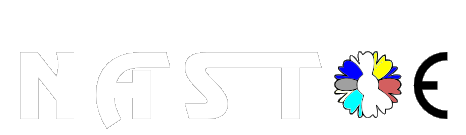
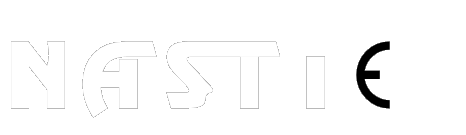
Л

diff --git a/css/index.css b/css/index.css
@@ -1,1 +1,1 @@
-.version.index{color:#0000E4;background-color:#100D49;}#muse_css_mq{background-color:#FFFFFF;}#page{z-index:1;width:960px;min-height:2424px;background-image:none;border-width:0px;border-color:#000000;background-color:transparent;margin-left:auto;margin-right:auto;}#u781-3{z-index:13;width:9px;background-color:transparent;position:relative;margin-right:-10000px;margin-top:511px;left:-323px;}#u784-3{z-index:16;width:9px;background-color:transparent;position:relative;margin-right:-10000px;margin-top:-9px;left:-249px;}#ppu98{z-index:0;width:0.01px;margin-right:-10000px;margin-top:-38px;margin-left:-100px;}#pu98{z-index:4;width:0.01px;margin-left:113px;}#u98{z-index:4;width:648px;height:9px;background-color:#FFFFFF;border-radius:10px;position:relative;margin-right:-10000px;margin-top:179px;left:142px;}#u791{z-index:19;width:60px;min-height:30px;border-width:0px;border-color:transparent;background-color:transparent;position:relative;margin-right:-10000px;margin-top:125px;left:44px;}#u792{z-index:20;width:50px;min-height:25px;border-width:0px;border-color:transparent;background-color:transparent;position:relative;margin-right:-10000px;margin-top:84px;left:44px;}#u1222{z-index:35;width:325px;background-color:transparent;position:relative;margin-right:-10000px;margin-top:1344px;left:302px;}#u1222:hover{width:325px;min-height:0px;margin:1344px -10000px 0px 0px;}#u1222:active{width:325px;min-height:0px;margin:1344px -10000px 0px 0px;}#u10733{z-index:37;width:925px;background-color:transparent;border-radius:50px;position:relative;margin-right:-10000px;margin-top:538px;left:4px;}#u10733::before{content:"";position:absolute;pointer-events:none;top:0px;left:0px;bottom:0px;right:0px;border-radius:50px;box-shadow:inset 1px 1px 4px rgba(255,255,255,0.75), inset -1px -1px 4px rgba(0,0,0,0.75);}#u10733::before .clip_frame,#u10733 .clip_frame{-webkit-border-radius:50px 50px 50px 50px;}#u10962{z-index:39;width:69px;background-color:transparent;position:relative;margin-right:-10000px;margin-top:445px;left:783px;}#u9486{z-index:41;width:281px;background-color:transparent;position:relative;margin-right:-10000px;margin-top:1260px;left:196px;}#u9482{z-index:42;display:block;}#u9475{z-index:43;width:281px;background-color:transparent;position:relative;margin-right:-10000px;margin-top:1260px;left:452px;}#u9471{z-index:44;display:block;}#u1524{z-index:53;width:95px;background-color:transparent;position:relative;margin-right:-10000px;margin-top:58px;left:138px;}#u2221{z-index:57;width:819px;background-color:transparent;position:relative;margin-right:-10000px;margin-top:159px;left:124px;}#u2217{z-index:58;display:block;}#u2386-4{z-index:59;width:208px;min-height:150px;background-color:transparent;font-size:24px;line-height:29px;color:#FF0000;position:relative;margin-right:-10000px;margin-top:256px;left:739px;}#u2656-4{z-index:63;width:225px;min-height:226px;background-color:transparent;font-size:24px;line-height:29px;color:#FF0000;position:relative;margin-right:-10000px;margin-top:256px;}#u2546{z-index:67;width:109px;height:29px;background-color:#FF0000;border-radius:12px;position:relative;margin-right:-10000px;margin-top:290px;left:417px;}#u2653{z-index:68;width:109px;height:29px;background-color:#FF0000;border-radius:12px;position:relative;margin-right:-10000px;margin-top:336px;left:412px;}#u2930{z-index:70;width:395px;background-color:transparent;position:relative;margin-right:-10000px;margin-top:251px;left:267px;}#u2926{z-index:71;display:block;}#u2907{z-index:72;width:479px;background-color:transparent;position:relative;margin-right:-10000px;margin-top:409px;left:228px;}#u2903{z-index:73;display:block;}#u8795{z-index:82;width:300px;min-height:150px;border-width:0px;border-color:transparent;background-color:transparent;color:#FFFFFF;font-size:11px;line-height:13px;font-family:open-sans, sans-serif;font-weight:300;position:relative;margin-right:-10000px;margin-top:1443px;left:63px;}#u8923{z-index:83;width:904px;height:1603px;position:relative;margin-right:-10000px;left:14px;}#u10951{z-index:84;width:466px;background-color:transparent;position:relative;margin-right:-10000px;margin-top:42px;left:248px;}#u10947{z-index:85;display:block;}#pu697-4{z-index:5;width:0.01px;margin-left:100px;margin-top:112px;}#u697-4{z-index:5;width:245px;min-height:70px;background-color:transparent;opacity:0.85;-ms-filter:"progid:DXImageTransform.Microsoft.Alpha(Opacity=85)";filter:alpha(opacity=85);color:#000000;font-size:42px;text-align:center;line-height:50px;font-family:Trebuchet, Trebuchet MS, Tahoma, Arial, sans-serif;position:relative;margin-right:-10000px;left:354px;}#u697-4:hover{text-shadow:none;box-shadow:none;padding-top:0px;padding-bottom:0px;min-height:70px;width:245px;margin:0px -10000px 0px 0px;}#u697-4:active{text-shadow:none;box-shadow:none;padding-top:0px;padding-bottom:0px;min-height:70px;width:245px;margin:0px -10000px 0px 0px;}#u718-4{z-index:9;width:424px;min-height:93px;border-width:0px;background-color:transparent;opacity:0.85;-ms-filter:"progid:DXImageTransform.Microsoft.Alpha(Opacity=85)";filter:alpha(opacity=85);color:#FFFFFF;font-size:42px;text-align:center;line-height:50px;font-family:Geneva, Verdana, Lucida Sans, Lucida Sans Unicode, sans-serif;position:relative;margin-right:-10000px;margin-top:134px;left:267px;}#u718-4:hover{text-shadow:none;box-shadow:none;padding-top:0px;padding-bottom:0px;min-height:93px;width:424px;margin:134px -10000px 0px 0px;}#u718-4:active{text-shadow:none;box-shadow:none;padding-top:0px;padding-bottom:0px;min-height:93px;width:424px;margin:134px -10000px 0px 0px;}#u4209{z-index:76;width:371px;background-color:transparent;position:relative;margin-right:-10000px;margin-top:62px;left:292px;}#u4205{z-index:77;display:block;}#u4289{z-index:78;width:270px;background-color:transparent;position:relative;margin-right:-10000px;margin-top:187px;left:345px;}#u4285{z-index:79;display:block;}#u3332{z-index:81;width:960px;height:268px;position:relative;margin-right:-10000px;}#pu1110{z-index:33;width:0.01px;margin-left:219px;margin-top:43px;}#u1110{z-index:33;width:122px;-webkit-transition-duration:1s;-webkit-transition-delay:0s;-webkit-transition-timing-function:ease;transition-duration:1s;transition-delay:0s;transition-timing-function:ease;background-image:url("../images/blank.gif?crc=4208392903");border-width:0px;background-color:transparent;position:relative;margin-right:-10000px;}#u1110:hover{opacity:0.4;-ms-filter:"progid:DXImageTransform.Microsoft.Alpha(Opacity=40)";filter:alpha(opacity=40);width:122px;min-height:0px;margin:0px -10000px 0px 0px;}#u1110.MuseLinkActive{opacity:0.4;-ms-filter:"progid:DXImageTransform.Microsoft.Alpha(Opacity=40)";filter:alpha(opacity=40);width:122px;min-height:0px;margin:0px -10000px 0px 0px;}#u1106{z-index:34;display:block;}#u834{z-index:25;width:105px;-webkit-transition-duration:1s;-webkit-transition-delay:0s;-webkit-transition-timing-function:ease;transition-duration:1s;transition-delay:0s;transition-timing-function:ease;background-image:url("../images/blank.gif?crc=4208392903");border-width:0px;background-color:transparent;position:relative;margin-right:-10000px;margin-top:11px;left:153px;}#u834:hover{opacity:0.65;-ms-filter:"progid:DXImageTransform.Microsoft.Alpha(Opacity=65)";filter:alpha(opacity=65);width:105px;min-height:0px;margin:11px -10000px 0px 0px;}#u834.MuseLinkActive{opacity:0.65;-ms-filter:"progid:DXImageTransform.Microsoft.Alpha(Opacity=65)";filter:alpha(opacity=65);width:105px;min-height:0px;margin:11px -10000px 0px 0px;}#u830{z-index:26;display:block;}#u2033{z-index:55;width:138px;-webkit-transition-duration:1s;-webkit-transition-delay:0s;-webkit-transition-timing-function:ease;transition-duration:1s;transition-delay:0s;transition-timing-function:ease;background-image:url("../images/blank.gif?crc=4208392903");border-width:0px;background-color:transparent;position:relative;margin-right:-10000px;margin-top:9px;left:287px;}#u2033:hover{opacity:0.5;-ms-filter:"progid:DXImageTransform.Microsoft.Alpha(Opacity=50)";filter:alpha(opacity=50);width:138px;min-height:0px;margin:9px -10000px 0px 0px;}#u2033.MuseLinkActive{opacity:0.5;-ms-filter:"progid:DXImageTransform.Microsoft.Alpha(Opacity=50)";filter:alpha(opacity=50);width:138px;min-height:0px;margin:9px -10000px 0px 0px;}#u2029{z-index:56;display:block;}#u1065{z-index:31;width:112px;-webkit-transition-duration:1s;-webkit-transition-delay:0s;-webkit-transition-timing-function:ease;transition-duration:1s;transition-delay:0s;transition-timing-function:ease;background-image:url("../images/blank.gif?crc=4208392903");border-width:0px;background-color:transparent;position:relative;margin-right:-10000px;margin-top:6px;left:445px;}#u1065:hover{opacity:0.65;-ms-filter:"progid:DXImageTransform.Microsoft.Alpha(Opacity=65)";filter:alpha(opacity=65);width:112px;min-height:0px;margin:6px -10000px 0px 0px;}#u1065.MuseLinkActive{opacity:0.65;-ms-filter:"progid:DXImageTransform.Microsoft.Alpha(Opacity=65)";filter:alpha(opacity=65);width:112px;min-height:0px;margin:6px -10000px 0px 0px;}#u1061{z-index:32;display:block;}#u3989{z-index:74;width:132px;-webkit-transition-duration:1s;-webkit-transition-delay:0s;-webkit-transition-timing-function:ease;transition-duration:1s;transition-delay:0s;transition-timing-function:ease;background-image:url("../images/blank.gif?crc=4208392903");background-color:transparent;opacity:0.85;-ms-filter:"progid:DXImageTransform.Microsoft.Alpha(Opacity=85)";filter:alpha(opacity=85);position:relative;margin-right:-10000px;margin-top:15px;left:591px;}#u3989:hover{-webkit-transition-duration:1s;-webkit-transition-delay:0s;-webkit-transition-timing-function:ease;transition-duration:1s;transition-delay:0s;transition-timing-function:ease;opacity:0.6;-ms-filter:"progid:DXImageTransform.Microsoft.Alpha(Opacity=60)";filter:alpha(opacity=60);width:132px;min-height:0px;margin:15px -10000px 0px 0px;}#u3989:active{-webkit-transition-duration:1s;-webkit-transition-delay:0s;-webkit-transition-timing-function:ease;transition-duration:1s;transition-delay:0s;transition-timing-function:ease;opacity:0.6;-ms-filter:"progid:DXImageTransform.Microsoft.Alpha(Opacity=60)";filter:alpha(opacity=60);width:132px;min-height:0px;margin:15px -10000px 0px 0px;}#u3985{z-index:75;display:block;}#u2607{z-index:69;height:9px;background-color:#000000;}.js body{visibility:hidden;}.js body.initialized{visibility:visible;}#u2607-bw{z-index:69;margin-top:31px;height:9px;}#pu3243{z-index:2;width:0.01px;margin-top:-4px;}#u3243{z-index:2;width:300px;min-height:35px;border-width:0px;border-color:transparent;background-color:transparent;position:relative;margin-right:-10000px;margin-top:155px;left:415px;}#u810{z-index:3;min-height:191.85000000000218px;background-color:#000000;padding-bottom:0px;}#u810_align_to_page{margin-left:auto;margin-right:auto;position:relative;width:960px;left:-100px;padding-top:30px;padding-bottom:52px;}#pu813-4{z-index:21;width:0.01px;left:415px;position:relative;}#u813-4{z-index:21;width:304px;min-height:27px;background-color:transparent;color:#FFFFFF;font-size:22px;text-align:center;line-height:26px;font-family:Trebuchet, Trebuchet MS, Tahoma, Arial, sans-serif;position:relative;margin-right:-10000px;margin-top:2px;left:26px;}#u1378-4{z-index:49;width:63px;min-height:31px;background-color:transparent;color:#FFFFFF;font-size:26px;text-align:center;line-height:31px;font-family:Trebuchet, Trebuchet MS, Tahoma, Arial, sans-serif;position:relative;margin-right:-10000px;}#u851-4{z-index:27;width:409px;min-height:37px;background-color:transparent;color:#FFFFFF;font-size:22px;text-align:center;line-height:26px;font-family:Trebuchet, Trebuchet MS, Tahoma, Arial, sans-serif;left:373px;margin-top:9px;position:relative;}#u1345-4{z-index:45;width:409px;min-height:37px;background-color:transparent;color:#FFFFFF;font-size:22px;text-align:center;line-height:26px;font-family:Trebuchet, Trebuchet MS, Tahoma, Arial, sans-serif;left:373px;top:-4px;margin-bottom:-4px;position:relative;}#u810-bw{z-index:3;min-height:191.85000000000218px;margin-top:15px;}#u1348{z-index:80;width:960px;height:187px;position:relative;margin-right:-10000px;left:100px;}.ie #u8923,.ie #u3332,.ie #u1348{background-color:#FFFFFF;opacity:0.01;-ms-filter:"progid:DXImageTransform.Microsoft.Alpha(Opacity=1)";filter:alpha(opacity=1);}.html{background-color:#FF0000;}body{position:relative;min-width:960px;padding-top:44px;}
+.version.index{color:#000013;background-color:#D0477E;}#muse_css_mq{background-color:#FFFFFF;}#page{z-index:1;width:960px;min-height:2424px;background-image:none;border-width:0px;border-color:#000000;background-color:transparent;margin-left:auto;margin-right:auto;}#u781-3{z-index:13;width:9px;background-color:transparent;position:relative;margin-right:-10000px;margin-top:511px;left:-323px;}#u784-3{z-index:16;width:9px;background-color:transparent;position:relative;margin-right:-10000px;margin-top:-9px;left:-249px;}#ppu98{z-index:0;width:0.01px;margin-right:-10000px;margin-top:-38px;margin-left:-100px;}#pu98{z-index:4;width:0.01px;margin-left:113px;}#u98{z-index:4;width:648px;height:9px;background-color:#FFFFFF;border-radius:10px;position:relative;margin-right:-10000px;margin-top:179px;left:142px;}#u791{z-index:19;width:60px;min-height:30px;border-width:0px;border-color:transparent;background-color:transparent;position:relative;margin-right:-10000px;margin-top:125px;left:44px;}#u792{z-index:20;width:50px;min-height:25px;border-width:0px;border-color:transparent;background-color:transparent;position:relative;margin-right:-10000px;margin-top:84px;left:44px;}#u11022{z-index:35;width:87px;background-color:transparent;-webkit-transform:matrix(-0.2079,0.9781,-0.9781,-0.2079,95,10);-ms-transform:matrix(-0.2079,0.9781,-0.9781,-0.2079,95,10);transform:matrix(-0.2079,0.9781,-0.9781,-0.2079,95,10);position:relative;margin-right:-10000px;margin-top:78px;left:712px;}#u11018{z-index:36;display:block;}#u1222{z-index:37;width:325px;background-color:transparent;position:relative;margin-right:-10000px;margin-top:1344px;left:302px;}#u1222:hover{width:325px;min-height:0px;margin:1344px -10000px 0px 0px;}#u1222:active{width:325px;min-height:0px;margin:1344px -10000px 0px 0px;}#u10733{z-index:39;width:925px;background-color:transparent;border-radius:50px;position:relative;margin-right:-10000px;margin-top:538px;left:4px;}#u10733::before{content:"";position:absolute;pointer-events:none;top:0px;left:0px;bottom:0px;right:0px;border-radius:50px;box-shadow:inset 1px 1px 4px rgba(255,255,255,0.75), inset -1px -1px 4px rgba(0,0,0,0.75);}#u10733::before .clip_frame,#u10733 .clip_frame{-webkit-border-radius:50px 50px 50px 50px;}#u10962{z-index:41;width:69px;background-color:transparent;position:relative;margin-right:-10000px;margin-top:445px;left:783px;}#u9486{z-index:43;width:281px;background-color:transparent;position:relative;margin-right:-10000px;margin-top:1260px;left:196px;}#u9482{z-index:44;display:block;}#u9475{z-index:45;width:281px;background-color:transparent;position:relative;margin-right:-10000px;margin-top:1260px;left:452px;}#u9471{z-index:46;display:block;}#u1524{z-index:55;width:95px;background-color:transparent;position:relative;margin-right:-10000px;margin-top:58px;left:138px;}#u2221{z-index:59;width:819px;background-color:transparent;position:relative;margin-right:-10000px;margin-top:159px;left:124px;}#u2217{z-index:60;display:block;}#u2386-4{z-index:61;width:208px;min-height:150px;background-color:transparent;font-size:24px;line-height:29px;color:#FF0000;position:relative;margin-right:-10000px;margin-top:256px;left:739px;}#u2656-4{z-index:65;width:225px;min-height:226px;background-color:transparent;font-size:24px;line-height:29px;color:#FF0000;position:relative;margin-right:-10000px;margin-top:256px;}#u2546{z-index:69;width:109px;height:29px;background-color:#FF0000;border-radius:12px;position:relative;margin-right:-10000px;margin-top:290px;left:417px;}#u2653{z-index:70;width:109px;height:29px;background-color:#FF0000;border-radius:12px;position:relative;margin-right:-10000px;margin-top:336px;left:412px;}#u2930{z-index:72;width:395px;background-color:transparent;position:relative;margin-right:-10000px;margin-top:251px;left:267px;}#u2926{z-index:73;display:block;}#u2907{z-index:74;width:479px;background-color:transparent;position:relative;margin-right:-10000px;margin-top:409px;left:228px;}#u2903{z-index:75;display:block;}#u8795{z-index:84;width:300px;min-height:150px;border-width:0px;border-color:transparent;background-color:transparent;color:#FFFFFF;font-size:11px;line-height:13px;font-family:open-sans, sans-serif;font-weight:300;position:relative;margin-right:-10000px;margin-top:1443px;left:63px;}#u8923{z-index:85;width:904px;height:1603px;position:relative;margin-right:-10000px;left:14px;}#u10951{z-index:86;width:466px;background-color:transparent;position:relative;margin-right:-10000px;margin-top:51px;left:260px;}#u10947{z-index:87;display:block;}#pu697-4{z-index:5;width:0.01px;margin-left:100px;margin-top:112px;}#u697-4{z-index:5;width:245px;min-height:70px;background-color:transparent;opacity:0.85;-ms-filter:"progid:DXImageTransform.Microsoft.Alpha(Opacity=85)";filter:alpha(opacity=85);color:#000000;font-size:42px;text-align:center;line-height:50px;font-family:Trebuchet, Trebuchet MS, Tahoma, Arial, sans-serif;position:relative;margin-right:-10000px;left:354px;}#u697-4:hover{text-shadow:none;box-shadow:none;padding-top:0px;padding-bottom:0px;min-height:70px;width:245px;margin:0px -10000px 0px 0px;}#u697-4:active{text-shadow:none;box-shadow:none;padding-top:0px;padding-bottom:0px;min-height:70px;width:245px;margin:0px -10000px 0px 0px;}#u718-4{z-index:9;width:424px;min-height:93px;border-width:0px;background-color:transparent;opacity:0.85;-ms-filter:"progid:DXImageTransform.Microsoft.Alpha(Opacity=85)";filter:alpha(opacity=85);color:#FFFFFF;font-size:42px;text-align:center;line-height:50px;font-family:Geneva, Verdana, Lucida Sans, Lucida Sans Unicode, sans-serif;position:relative;margin-right:-10000px;margin-top:134px;left:267px;}#u718-4:hover{text-shadow:none;box-shadow:none;padding-top:0px;padding-bottom:0px;min-height:93px;width:424px;margin:134px -10000px 0px 0px;}#u718-4:active{text-shadow:none;box-shadow:none;padding-top:0px;padding-bottom:0px;min-height:93px;width:424px;margin:134px -10000px 0px 0px;}#u4209{z-index:78;width:371px;background-color:transparent;position:relative;margin-right:-10000px;margin-top:62px;left:292px;}#u4205{z-index:79;display:block;}#u4289{z-index:80;width:270px;background-color:transparent;position:relative;margin-right:-10000px;margin-top:187px;left:345px;}#u4285{z-index:81;display:block;}#u3332{z-index:83;width:960px;height:268px;position:relative;margin-right:-10000px;}#pu1110{z-index:33;width:0.01px;margin-left:219px;margin-top:43px;}#u1110{z-index:33;width:122px;-webkit-transition-duration:1s;-webkit-transition-delay:0s;-webkit-transition-timing-function:ease;transition-duration:1s;transition-delay:0s;transition-timing-function:ease;background-image:url("../images/blank.gif?crc=4208392903");border-width:0px;background-color:transparent;position:relative;margin-right:-10000px;}#u1110:hover{opacity:0.4;-ms-filter:"progid:DXImageTransform.Microsoft.Alpha(Opacity=40)";filter:alpha(opacity=40);width:122px;min-height:0px;margin:0px -10000px 0px 0px;}#u1110.MuseLinkActive{opacity:0.4;-ms-filter:"progid:DXImageTransform.Microsoft.Alpha(Opacity=40)";filter:alpha(opacity=40);width:122px;min-height:0px;margin:0px -10000px 0px 0px;}#u1106{z-index:34;display:block;}#u834{z-index:25;width:105px;-webkit-transition-duration:1s;-webkit-transition-delay:0s;-webkit-transition-timing-function:ease;transition-duration:1s;transition-delay:0s;transition-timing-function:ease;background-image:url("../images/blank.gif?crc=4208392903");border-width:0px;background-color:transparent;position:relative;margin-right:-10000px;margin-top:11px;left:153px;}#u834:hover{opacity:0.65;-ms-filter:"progid:DXImageTransform.Microsoft.Alpha(Opacity=65)";filter:alpha(opacity=65);width:105px;min-height:0px;margin:11px -10000px 0px 0px;}#u834.MuseLinkActive{opacity:0.65;-ms-filter:"progid:DXImageTransform.Microsoft.Alpha(Opacity=65)";filter:alpha(opacity=65);width:105px;min-height:0px;margin:11px -10000px 0px 0px;}#u830{z-index:26;display:block;}#u2033{z-index:57;width:138px;-webkit-transition-duration:1s;-webkit-transition-delay:0s;-webkit-transition-timing-function:ease;transition-duration:1s;transition-delay:0s;transition-timing-function:ease;background-image:url("../images/blank.gif?crc=4208392903");border-width:0px;background-color:transparent;position:relative;margin-right:-10000px;margin-top:9px;left:287px;}#u2033:hover{opacity:0.5;-ms-filter:"progid:DXImageTransform.Microsoft.Alpha(Opacity=50)";filter:alpha(opacity=50);width:138px;min-height:0px;margin:9px -10000px 0px 0px;}#u2033.MuseLinkActive{opacity:0.5;-ms-filter:"progid:DXImageTransform.Microsoft.Alpha(Opacity=50)";filter:alpha(opacity=50);width:138px;min-height:0px;margin:9px -10000px 0px 0px;}#u2029{z-index:58;display:block;}#u1065{z-index:31;width:112px;-webkit-transition-duration:1s;-webkit-transition-delay:0s;-webkit-transition-timing-function:ease;transition-duration:1s;transition-delay:0s;transition-timing-function:ease;background-image:url("../images/blank.gif?crc=4208392903");border-width:0px;background-color:transparent;position:relative;margin-right:-10000px;margin-top:6px;left:445px;}#u1065:hover{opacity:0.65;-ms-filter:"progid:DXImageTransform.Microsoft.Alpha(Opacity=65)";filter:alpha(opacity=65);width:112px;min-height:0px;margin:6px -10000px 0px 0px;}#u1065.MuseLinkActive{opacity:0.65;-ms-filter:"progid:DXImageTransform.Microsoft.Alpha(Opacity=65)";filter:alpha(opacity=65);width:112px;min-height:0px;margin:6px -10000px 0px 0px;}#u1061{z-index:32;display:block;}#u3989{z-index:76;width:132px;-webkit-transition-duration:1s;-webkit-transition-delay:0s;-webkit-transition-timing-function:ease;transition-duration:1s;transition-delay:0s;transition-timing-function:ease;background-image:url("../images/blank.gif?crc=4208392903");background-color:transparent;opacity:0.85;-ms-filter:"progid:DXImageTransform.Microsoft.Alpha(Opacity=85)";filter:alpha(opacity=85);position:relative;margin-right:-10000px;margin-top:15px;left:591px;}#u3989:hover{-webkit-transition-duration:1s;-webkit-transition-delay:0s;-webkit-transition-timing-function:ease;transition-duration:1s;transition-delay:0s;transition-timing-function:ease;opacity:0.6;-ms-filter:"progid:DXImageTransform.Microsoft.Alpha(Opacity=60)";filter:alpha(opacity=60);width:132px;min-height:0px;margin:15px -10000px 0px 0px;}#u3989:active{-webkit-transition-duration:1s;-webkit-transition-delay:0s;-webkit-transition-timing-function:ease;transition-duration:1s;transition-delay:0s;transition-timing-function:ease;opacity:0.6;-ms-filter:"progid:DXImageTransform.Microsoft.Alpha(Opacity=60)";filter:alpha(opacity=60);width:132px;min-height:0px;margin:15px -10000px 0px 0px;}#u3985{z-index:77;display:block;}#u2607{z-index:71;height:9px;background-color:#000000;}.js body{visibility:hidden;}.js body.initialized{visibility:visible;}#u2607-bw{z-index:71;margin-top:31px;height:9px;}#pu3243{z-index:2;width:0.01px;margin-top:-4px;}#u3243{z-index:2;width:300px;min-height:35px;border-width:0px;border-color:transparent;background-color:transparent;position:relative;margin-right:-10000px;margin-top:155px;left:415px;}#u810{z-index:3;min-height:191.85000000000218px;background-color:#000000;padding-bottom:0px;}#u810_align_to_page{margin-left:auto;margin-right:auto;position:relative;width:960px;left:-100px;padding-top:30px;padding-bottom:52px;}#pu813-4{z-index:21;width:0.01px;left:415px;position:relative;}#u813-4{z-index:21;width:304px;min-height:27px;background-color:transparent;color:#FFFFFF;font-size:22px;text-align:center;line-height:26px;font-family:Trebuchet, Trebuchet MS, Tahoma, Arial, sans-serif;position:relative;margin-right:-10000px;margin-top:2px;left:26px;}#u1378-4{z-index:51;width:63px;min-height:31px;background-color:transparent;color:#FFFFFF;font-size:26px;text-align:center;line-height:31px;font-family:Trebuchet, Trebuchet MS, Tahoma, Arial, sans-serif;position:relative;margin-right:-10000px;}#u851-4{z-index:27;width:409px;min-height:37px;background-color:transparent;color:#FFFFFF;font-size:22px;text-align:center;line-height:26px;font-family:Trebuchet, Trebuchet MS, Tahoma, Arial, sans-serif;left:373px;margin-top:9px;position:relative;}#u1345-4{z-index:47;width:409px;min-height:37px;background-color:transparent;color:#FFFFFF;font-size:22px;text-align:center;line-height:26px;font-family:Trebuchet, Trebuchet MS, Tahoma, Arial, sans-serif;left:373px;top:-4px;margin-bottom:-4px;position:relative;}#u810-bw{z-index:3;min-height:191.85000000000218px;margin-top:15px;}#u1348{z-index:82;width:960px;height:187px;position:relative;margin-right:-10000px;left:100px;}.ie #u8923,.ie #u3332,.ie #u1348{background-color:#FFFFFF;opacity:0.01;-ms-filter:"progid:DXImageTransform.Microsoft.Alpha(Opacity=1)";filter:alpha(opacity=1);}.html{background-color:#FF0000;}body{position:relative;min-width:960px;padding-top:44px;}

diff --git a/index.html b/index.html
@@ -19,7 +19,7 @@ if(typeof Muse == "undefined") window.Muse = {}; window.Muse.assets = {"required
   <title>NASTIE</title>
   <!-- CSS -->
   <link rel="stylesheet" type="text/css" href="css/site_global.css?crc=4162518342"/>
-  <link rel="stylesheet" type="text/css" href="css/index.css?crc=3826257225" id="pagesheet"/>
+  <link rel="stylesheet" type="text/css" href="css/index.css?crc=332416894" id="pagesheet"/>
   <!-- Other scripts -->
   <script type="text/javascript">
    var __adobewebfontsappname__ = "muse";
@@ -155,7 +155,6 @@ visibility: visible !important;
 			right: 0;
 		}
 
-
 </style>
 
  </head>
@@ -181,6 +180,9 @@ visibility: visible !important;
      <div class="size_fixed grpelem" id="u792"><!-- custom html -->
 
 
+     </div>
+     <div class="clip_frame grpelem" id="u11022" data-mu-ie-matrix="progid:DXImageTransform.Microsoft.Matrix(M11=-0.2079,M12=-0.9781,M21=0.9781,M22=-0.2079,SizingMethod='auto expand')" data-mu-ie-matrix-dx="-8" data-mu-ie-matrix-dy="-8"><!-- svg -->
+      <img class="svg" id="u11018" src="images/%d1%86%d0%b2%d0%b5%d1%82%d0%be%d1%87%d0%b5%d0%ba.svg?crc=3781576392" width="87" height="87" alt="" data-mu-svgfallback="images/%d1%86%d0%b2%d0%b5%d1%82%d0%be%d1%87%d0%b5%d0%ba_poster_.png?crc=4146998214"/>
      </div>
      <div class="clip_frame grpelem" id="u1222"><!-- image -->
       <img class="block" id="u1222_img" src="images/%d1%88%d0%b0%d1%80%d0%b8%d0%ba.gif?crc=235075892" alt="" width="325" height="325"/>
@@ -231,7 +233,7 @@ visibility: visible !important;
      </div>
      <div class="grpelem" id="u8923"><!-- content --></div>
      <div class="clip_frame grpelem" id="u10951"><!-- svg -->
-      <img class="svg" id="u10947" src="images/nastie---%d0%b8%d0%bc%d1%8f---%d0%ba%d0%be%d0%bc%d0%bf%d0%be%d0%b7%d0%b8%d1%86%d0%b8%d1%8f---2.svg?crc=4111944550" width="466" height="135" alt="" data-mu-svgfallback="images/nastie%20-%20%d0%b8%d0%bc%d1%8f%20-%20%d0%ba%d0%be%d0%bc%d0%bf%d0%be%d0%b7%d0%b8%d1%86%d0%b8%d1%8f%20-%202_poster_.png?crc=216837968"/>
+      <img class="svg" id="u10947" src="images/nastie---%d0%b8%d0%bc%d1%8f---%d0%ba%d0%be%d0%bc%d0%bf%d0%be%d0%b7%d0%b8%d1%86%d0%b8%d1%8f---2.svg?crc=86296521" width="466" height="135" alt="" data-mu-svgfallback="images/nastie%20-%20%d0%b8%d0%bc%d1%8f%20-%20%d0%ba%d0%be%d0%bc%d0%bf%d0%be%d0%b7%d0%b8%d1%86%d0%b8%d1%8f%20-%202_poster_.png?crc=496599636"/>
      </div>
     </div>
     <div class="clearfix colelem" id="pu697-4"><!-- group -->
